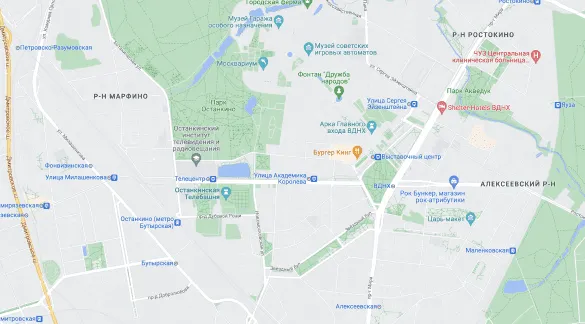
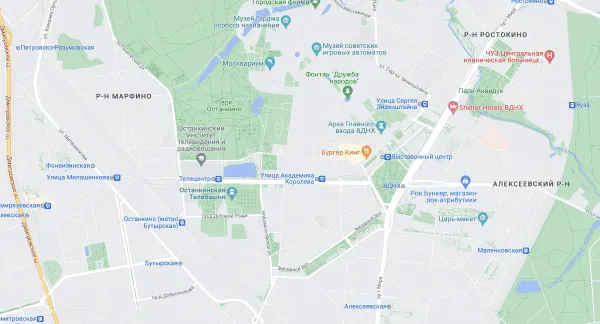
some fix, contacts

diff --git a/source/index.html b/source/index.html
@@ -971,7 +971,58 @@
         </div>
       </section>
     </main>
-    <footer class="page-footer" data-test="footer">footer</footer>
+    <footer class="page-footer" data-test="footer">
+      <section class="contacts">
+        <div class="contacts__container">
+          <div class="contacts__col contacts__col--info">
+            <div class="contacts__head">
+              <h2 class="section-title contacts__title">Контакты<span class="section-title__back contacts__title-back"
+                  aria-hidden="true">Контакты</span></h2>
+              <p>Свяжитесь с нами любым удобным для вас способом или приходите к нам в гости.
+                Мы будем рады поделиться увлекательными
+                историями и подобрать для вас тур.</p>
+            </div>
+            <ul class="contacts__list">
+              <li class="contacts__item contacts__item--phone">
+                <span>Телефон</span>
+                <a href="tel:+79837454545">+7 983 745-45-45</a>
+              </li>
+              <li class="contacts__item contacts__item--email">
+                <span>Email</span>
+                <a href="mailto:info@lifetour.com">info@lifetour.com</a>
+              </li>
+              <li class=" contacts__item contacts__item--address">
+                <span>Адрес</span>
+                <b>г. Москва, пр-т Мира, д. 14, офис 101</b>
+              </li>
+            </ul>
+          </div>
+          <div class="contacts__col contacts__col--map map">
+            <div class="map__img">
+              <picture>
+                <!-- mobile -->
+                <source width="320" height="343" type="image/webp" media="(max-width: 767px)"
+                  srcset="img/map/map-mobile.webp 1x, img/map/map-mobile@2x.webp 2x">
+                <source width="320" height="343" type="image/jpeg" media="(max-width: 767px)"
+                  srcset="img/map/map-mobile.png 1x, img/map/map-mobile@2x.png 2x">
+                <!-- tablet -->
+                <source width="768" height="340" type="image/webp" media="(min-width: 768px) and (max-width: 1439px)"
+                  srcset="img/map/map-tablet.webp 1x, img/map/map-tablet@2x.webp 2x">
+                <source width="768" height="340" type="image/jpeg" media="(min-width: 768px) and (max-width: 1439px)"
+                  srcset="img/map/map-tablet.png 1x, img/map/map-tablet@2x.png 2x">
+                <!-- desktop -->
+                <source width="600" height="324" type="image/webp" media="(min-width: 1440px)"
+                  srcset="img/map/map-desktop.webp 1x, img/map/map-desktop@2x.webp 2x">
+                <img width="600" height="324" src="img/map/map-desktop.png" srcset="img/map/map-desktop@2x.png 2x"
+                  alt="г. Москва, пр-т Мира, д. 14, офис 101">
+              </picture>
+              <div class="map__pin">
+              </div>
+            </div>
+          </div>
+        </div>
+      </section>
+    </footer>
   </div>
   <script type="module" src="js/main.js"></script>
 </body>

diff --git a/source/sass/blocks/contacts.scss b/source/sass/blocks/contacts.scss
@@ -1,0 +1,201 @@
+.contacts {
+  padding-top: 123px;
+
+  // background-color: red;
+  @include vp-1439 {
+    padding-top: 60px;
+  }
+
+  @include vp-767 {}
+}
+
+.contacts__container {
+  display: flex;
+  align-items: flex-start;
+  width: 100%;
+  max-width: 1440px;
+  margin: 0 auto;
+  padding: 0 120px;
+
+  @include vp-1439 {
+    flex-direction: column;
+    padding: 0;
+  }
+
+  @include vp-767 {}
+}
+
+.contacts__col {
+  &--info {
+    width: 600px;
+
+    @include vp-1439 {
+      width: 768px;
+      margin-left: auto;
+      margin-right: auto;
+      padding-left: 45px;
+      padding-right: 43px;
+    }
+
+    @include vp-767 {}
+  }
+
+  &--map {
+    width: 600px;
+    padding-top: 26px;
+
+    @include vp-1439 {
+      width: 100%;
+      padding-top: 39px;
+    }
+
+    @include vp-767 {}
+  }
+}
+
+.contacts__head {
+  margin-bottom: 50px;
+
+  @include vp-1439 {
+    margin-bottom: 40px;
+  }
+
+  @include vp-767 {}
+}
+
+.contacts__title {
+  position: relative;
+  margin-bottom: 23px;
+
+  @include vp-1439 {
+    margin-bottom: 21px;
+  }
+
+  @include vp-767 {}
+}
+
+.contacts__title-back {
+  bottom: -3px;
+}
+
+.contacts__head p {
+  max-width: 500px;
+  margin: 0;
+  font-size: 16px;
+  line-height: 24px;
+  font-weight: 400;
+
+  @include vp-1439 {}
+
+  @include vp-767 {
+    font-size: 14px;
+    line-height: 20px;
+  }
+}
+
+.contacts__list {
+  padding: 0;
+  margin: 0;
+  list-style-type: none;
+  display: flex;
+  flex-direction: column;
+  align-items: flex-start;
+  row-gap: 35px;
+
+  @include vp-1439 {
+    width: 100%;
+    flex-direction: row;
+    row-gap: 20px;
+    column-gap: 40px;
+  }
+}
+
+.contacts__item {
+  padding-left: 56px;
+  display: flex;
+  flex-direction: column;
+  align-self: flex-start;
+  row-gap: 8px;
+  position: relative;
+
+  &--phone::before,
+  &--email::before,
+  &--address::before {
+    position: absolute;
+    content: "";
+    top: 12px;
+    left: 0;
+    mask-repeat: no-repeat;
+    mask-position: center;
+    background-color: $color-dark;
+  }
+
+  &--phone {
+    &::before {
+      width: 26px;
+      height: 26px;
+      mask-image: url("../__spritemap#sprite-icon-phone-view");
+      mask-size: 23.64px 23.64px;
+    }
+
+  }
+
+  &--email {
+    &::before {
+      width: 26px;
+      height: 26px;
+      mask-image: url("../__spritemap#sprite-icon-mail-view");
+      mask-size: 23.64px 16.55px;
+    }
+
+  }
+
+  &--address {
+    &::before {
+      width: 26px;
+      height: 26px;
+      mask-image: url("../__spritemap#sprite-icon-pin-view");
+      mask-size: 17.73px 23.64px;
+    }
+
+  }
+
+  @include vp-1439 {
+    padding-left: 34px;
+    row-gap: 6px;
+  }
+
+  @include vp-767 {}
+}
+
+.contacts__item span {
+  font-size: 18px;
+  font-weight: 600;
+  line-height: 18px;
+
+  @include vp-1439 {
+    font-size: 16px;
+    line-height: 16px;
+  }
+
+  @include vp-767 {}
+}
+
+.contacts__item a,
+.contacts__item b {
+  font-size: 16px;
+  font-weight: 400;
+  line-height: 24px;
+
+  @include vp-1439 {
+    font-size: 14px;
+    line-height: 22px;
+  }
+
+  @include vp-767 {}
+}
+
+.contacts__item a {
+  text-decoration: none;
+  color: inherit;
+}

diff --git a/source/sass/blocks/map.scss b/source/sass/blocks/map.scss
@@ -1,0 +1,54 @@
+.map {}
+
+.map__img {
+  font-size: 0;
+  line-height: 0;
+  position: relative;
+}
+
+.map__img img {
+  width: 600px;
+  height: 324px;
+  display: block;
+
+  @include vp-1439 {
+    width: 100%;
+    height: auto;
+    object-fit: cover;
+  }
+
+  @include vp-767 {}
+}
+
+.map__pin {
+  position: absolute;
+  width: 48px;
+  height: 48px;
+  top: 162px;
+  left: 360px;
+  display: flex;
+  align-items: center;
+  justify-content: center;
+
+  &::before {
+    position: absolute;
+    content: "";
+    mask-repeat: no-repeat;
+    mask-position: center;
+    background-color: $color-action;
+    width: 48px;
+    height: 48px;
+    left: 0;
+    top: 0;
+    mask-image: url("../__spritemap#sprite-icon-pin-filled-view");
+    mask-size: 32.73px 43.64px;
+  }
+
+  @include vp-1439 {
+    width: 42px;
+    height: 42px;
+    top: 185px;
+  }
+
+  @include vp-767 {}
+}

diff --git a/source/sass/style.scss b/source/sass/style.scss
@@ -33,3 +33,5 @@
 @import "blocks/gallery";
 @import "blocks/gallery-slide";
 @import "blocks/form";
+@import "blocks/contacts";
+@import "blocks/map";
